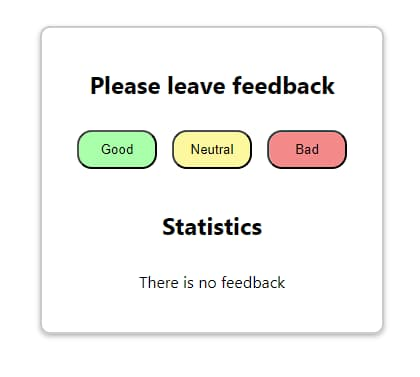
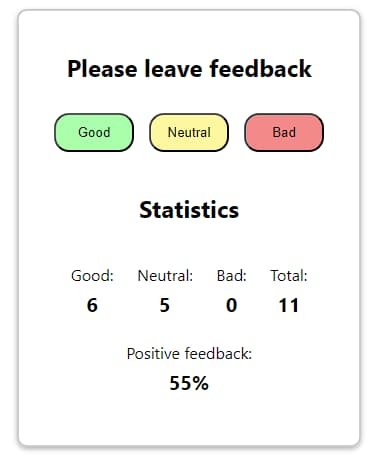
updated README.md

diff --git a/README.md b/README.md
@@ -1,7 +1,41 @@
-# React homework-4 feedback
+# Віджет відгуків реалізований з використанням React-хуків
 
-## Віджет відгуків з використанням React-хуків
+## Опис:
+
+Цей проект є простим віджетом для збору відгуків від користувачів, реалізованим
+з використанням бібліотеки React та його хуків.
 
 ![Widget screenshot 1](./assets/Screenshot_1.jpg)
 
+## Функціональні можливості:
+
+- Користувач може залишити відгук, обравши одну з доступних опцій.
+- Відображення статистики зібраних відгуків у вигляді кількості кожного типу
+  відгуку та відсотка позитивних відгуків.
+- Якщо відгуків немає, виводиться повідомлення про відсутність відгуків.
+
 ![Widget screenshot 2](./assets/Screenshot_2.jpg)
+
+## Структура проекту:
+
+- `App.jsx`: Основний компонент, що містить логіку віджета та відображає його
+  інтерфейс.
+- `Section.jsx`: Компонент-обгортка для секцій віджета.
+- `FeedbackOptions.jsx`: Компонент, який відображає доступні опції відгуків та
+  дозволяє користувачу обрати одну з них.
+- `Statistics.jsx`: Компонент, який відображає статистику зібраних відгуків.
+- `Notification.jsx`: Компонент, що відображає повідомлення про відсутність
+  відгуків.
+
+## Інструкції з встановлення та використання:
+
+1. Склонуйте репозиторій на свій локальний комп'ютер.
+2. Відкрийте проект у редакторі коду.
+3. Відкрийте термінал та перейдіть до директорії проекту.
+4. Виконайте команду `npm install`, щоб встановити залежності проекту.
+5. Після встановлення залежностей виконайте команду `npm start`, щоб запустити
+   проект у режимі розробки.
+6. Відкрийте браузер та перейдіть за посиланням http://localhost:3000, щоб
+   переглянути віджет в дії.
+
+Насолоджуйтеся використанням.
